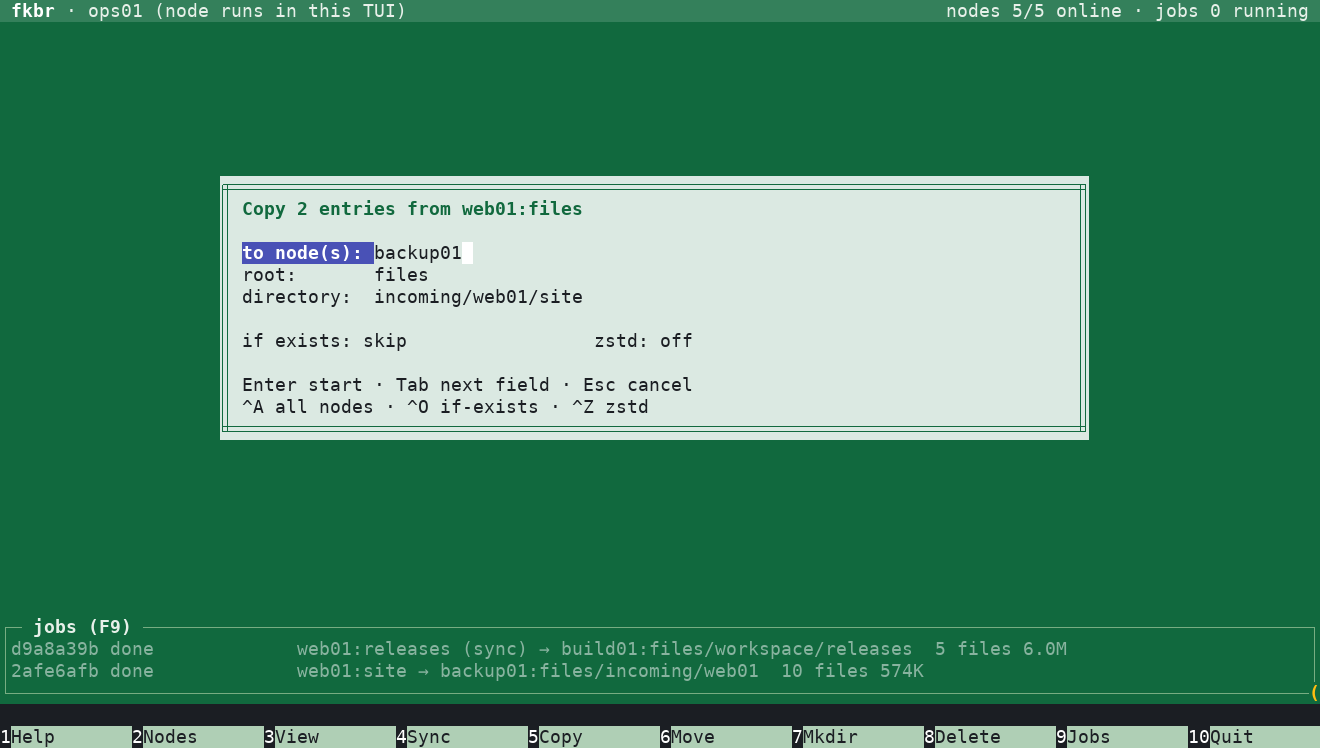
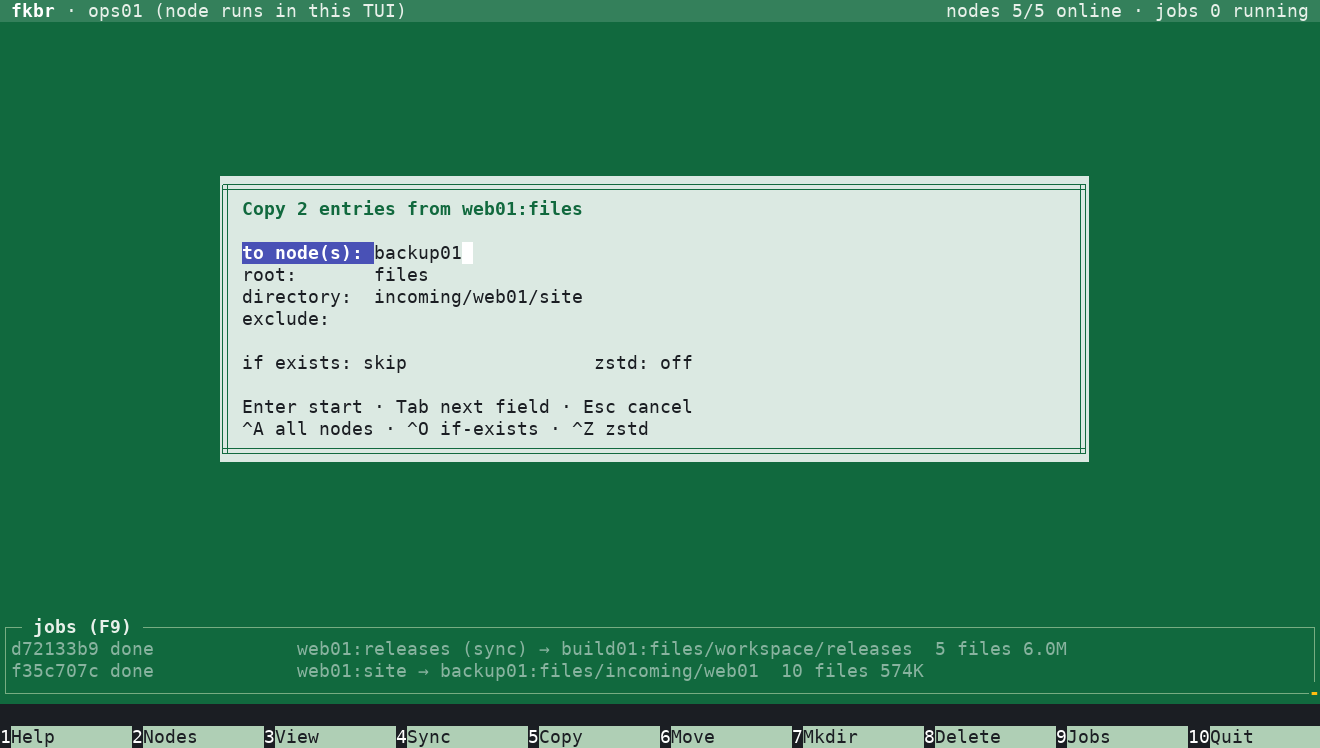
README: clearer wording, current screenshots, neutral demo data

Changed region(s): [[0.1553, 0.3997, 0.8386, 0.615], [0.0, 0.861, 0.0932, 0.9225], [0.9939, 0.9225, 1.0, 0.9532]]

diff --git a/README.md b/README.md
@@ -1,125 +1,133 @@
 # fkbr
 
-fkbr is a file commander and sync tool for hosts that share nothing but an
-NFS mount. Nodes never connect to each other. They exchange requests and
-data through a directory on the shared mount.
+fkbr copies and syncs files between Linux hosts that share only an NFS
+mount. The hosts never connect to each other: requests and data pass
+through a directory on the share. It ships as a single static binary with
+a dual-pane TUI and a scriptable CLI.
 
-- One static binary (x86-64 or ARM64) for any Linux with kernel 3.10 or
-  newer; it needs no glibc. Nothing is installed: no package, service,
-  system user or config in `/etc`.
-- A dual-pane TUI, Norton Commander style, where either pane can browse any
-  node. Copy, move, mkdir, delete and view work on any node.
-- A swarm, not a hierarchy: start `fkbr /mnt/nfs/dir` on each host and it
-  joins. Copies go to one node, a list, or every node (`@all`). Data is
-  staged once and every target reads it. Slow or offline targets are
-  detached and can catch up later.
-- About as fast as tar through the same share, and faster when copying to
-  several machines at once (`docs/benchmarks.md`).
-- Sync of millions of files: streaming scans with flat memory, incremental
-  or mirror mode, dry-run plans, and a delete limit.
-- Crash-safe: atomic publication on the share, chunk checksums, and
-  resumable jobs. Transfers are staged and installed only when complete.
-  Tested on a lab of five hosts by killing, freezing and restarting nodes
-  mid-transfer, cutting hosts off the NFS server, and deleting parts of
-  the share under running nodes (`docs/testplan.md`).
+## Features
 
-## What it looks like
+- **Nothing to install.** One static binary for x86-64 or ARM64. It runs
+  on any Linux with kernel 3.10 or newer and does not depend on glibc. No
+  package, service, system user or files in `/etc`.
+- **No master.** Each host that runs `fkbr /mnt/nfs/xfer` joins as a node
+  named after its hostname. Copy to one node, a list of nodes, or all of
+  them (`@all`).
+- **Fan-out.** Data is staged on the share once and read by every target.
+  Slow or offline targets are detached and can catch up later.
+- **Dual-pane TUI** in the style of Norton Commander. Either pane browses
+  any node; copy, move, sync, view, create and delete work on any node,
+  with live job progress.
+- **Sync** in one direction, incremental or mirror, over millions of files
+  with flat memory use. Every sync is planned as a dry run you confirm.
+  Excludes, keep-newer and a delete limit protect the target.
+- **Fast.** About as fast as tar through the same share, and faster when
+  copying to several hosts (`docs/benchmarks.md`).
+- **Crash-safe.** Atomic writes on the share, checksummed chunks and
+  resumable jobs. Files are installed only after the whole transfer has
+  arrived. Tested by killing, freezing and restarting nodes mid-transfer,
+  cutting hosts off the NFS server, and deleting parts of the share under
+  running nodes (`docs/testplan.md`).
 
-Five nodes on one share. On the left, two files on web01 are selected; on
-the right is backup01, where an earlier copy of web01's site arrived:
+## Screenshots
+
+Five nodes on one share. Two files are marked on web01 (left); backup01
+(right) holds an earlier copy of web01's site.
 
 ![Two panes: web01 and backup01, with the jobs panel below](docs/screenshots/fkbr-main.png)
 
-F5 copies the selection. The destination defaults to the other pane, or
-to the nodes marked with Insert in a node list (`@dest`); you can also
-type `n1,n2` or press Ctrl+A for every node:
+**Copy (F5).** The destination defaults to the other pane, or to the
+nodes marked with Insert in a node list (`@dest`). Type `n1,n2` for a
+list, or press Ctrl+A for all nodes. Excludes are optional.
 
 ![The copy dialog](docs/screenshots/fkbr-copy.png)
 
-Any pane can show any node. F9 moves to the jobs panel:
+**Jobs (F9).** Either pane can show any node. The jobs panel lists running
+and finished jobs.
 
 ![db01 and backup01, with the jobs panel focused](docs/screenshots/fkbr-jobs.png)
 
-Enter on a job shows its details while it runs: progress, rate and ETA,
-and what each node is doing:
+**Job details (Enter).** Progress, rate and ETA, and what each node is
+doing, updated live.
 
 ![Details of a running copy of three database dumps to four nodes](docs/screenshots/fkbr-progress.png)
 
-F4 syncs: the other side is made to match this pane, the whole folder or
-just the marked folders, after a dry run you confirm. F1 explains every key.
+**View (F3).** Shows a file from any node, with XML and JSON highlighted.
 
-F3 shows a file from any node, with XML and JSON highlighted:
+![The viewer showing a build configuration on build01](docs/screenshots/fkbr-view.png)
 
-![The viewer showing a Jenkins job config.xml from build01](docs/screenshots/fkbr-view.png)
+**Sync (F4)** makes the other side match this pane: the whole folder, or
+only the marked folders, after a dry run you confirm. **F1** lists every
+key.
 
 ## Quick start
 
-New here? Read `docs/FAQ.md`. It takes a minute.
-
-Build it on any machine with Go ≥ 1.25 (it cross-compiles):
+Build with Go 1.25 or newer. `make` cross-compiles both architectures:
 
 ```
-make               # dist/fkbr-linux-amd64 and dist/fkbr-linux-arm64, static
+make    # dist/fkbr-linux-amd64 and dist/fkbr-linux-arm64
 ```
 
-Copy the binary to each host. On each host, `cd` to the directory you want
-to share and point fkbr at a directory on the NFS mount:
+Copy the binary to each host. On each host, change to the directory to
+share and start fkbr with a directory on the NFS mount:
 
 ```
 cd /srv/data
 fkbr /mnt/nfs/xfer
 ```
 
-That's all. The host registers itself in `/mnt/nfs/xfer` as a node named
-after its hostname, shares the current directory with everything below it,
-and opens the TUI. Every host that does the same joins the swarm. There
-are no masters or slaves: copy to one node, a list (`hostb,hostc`), or
-every other node (`@all`; Ctrl+A in the TUI's copy dialog). Quitting the
-TUI leaves the swarm again; `fkbr /mnt/nfs/xfer daemon` keeps a host in it.
+The host joins as a node, shares the current directory and everything
+below it, and opens the TUI. Quitting the TUI leaves the swarm;
+`fkbr /mnt/nfs/xfer daemon` keeps the host in it without a terminal.
 
-From another shell on the same host, commands go through the running
-node:
+Before first use, run `fkbr /mnt/nfs/xfer check` on each host. It checks
+the mount options, atomic rename on the share, clock skew and node-name
+uniqueness.
+
+## Command line
+
+Commands use the node running on the same host (TUI or daemon):
 
 ```
-fkbr /mnt/nfs/xfer nodes
-fkbr /mnt/nfs/xfer cp /reports @all:/incoming
-fkbr /mnt/nfs/xfer cp hostb:/logs/app.log /
-fkbr /mnt/nfs/xfer sync -mirror -n /site hostb,hostc:/site
+fkbr /mnt/nfs/xfer nodes                                    # nodes and their state
+fkbr /mnt/nfs/xfer cp /reports @all:/incoming               # copy to every node
+fkbr /mnt/nfs/xfer cp hostb:/logs/app.log /                 # fetch from a node
+fkbr /mnt/nfs/xfer sync -mirror -n /site hostb,hostc:/site  # preview a mirror
+fkbr /mnt/nfs/xfer jobs                                     # running and recent jobs
 ```
 
-Run `fkbr /mnt/nfs/xfer check` on each host first. It checks the NFS mount
-options, atomic rename on the share, clock skew and node-name uniqueness.
-Options such as `-node`, `-ro`, `-root id=/path` and `-roles` are covered
-in `docs/operations.md`. `fkbr version` prints the release and commit
-(`fkbr v1.0 f0c0e0b`).
+`docs/operations.md` covers every command and option (`-node`, `-ro`,
+`-root id=/path`, `-roles`, ...). `fkbr version` prints the release and
+the commit it was built from.
 
 ## Documentation
 
-- `docs/FAQ.md`: the shortest way to get going
-- `docs/operations.md`: running nodes, commands, TUI keys, sync, privileges,
-  and what fkbr leaves on a host
+- `docs/FAQ.md`: short answers to common questions; start here
+- `docs/operations.md`: running nodes, commands, TUI keys, sync,
+  privileges, and what fkbr leaves on a host
 - `docs/protocol.md`: the on-share protocol (mailboxes, chunks, fan-out,
   sync)
 - `docs/benchmarks.md`: measured performance
 - `docs/testplan.md`: what could break, how it is tested, and the results
-- `examples/config.yaml`: every option, if you prefer a config file to flags
+- `examples/config.yaml`: every option, for those who prefer a config file
+  to flags
 
 ## Development
 
 ```
-make test         # unit, integration and failure-injection tests
-make test-race    # needs a 48-bit VMA kernel (not a Raspberry Pi 5)
+make test                    # unit, integration and failure-injection tests
+make test-race               # needs a kernel with a 48-bit VMA (not a Raspberry Pi 5)
 make vet
-scripts/bench.sh  # 1 master + N slaves on one machine
-scripts/screenshots/take.sh  # retake docs/screenshots (needs pyte, pillow)
+scripts/bench.sh             # 1 source + N targets on one machine
+scripts/screenshots/take.sh  # retake docs/screenshots (needs pyte and pillow)
 ```
 
-The layers:
-- **Frontends:** `internal/frontend/{cli,tui}`, which only use
-  `internal/api`.
+The code is layered:
+
+- **Frontends:** `internal/frontend/{cli,tui}`, using only `internal/api`.
 - **API:** `internal/api`, with an in-process client (`api/local`) and a
   Unix-socket client (`api/remote`).
-- **Engine:** `internal/engine`, which handles jobs, fan-out and sync.
+- **Engine:** `internal/engine`: jobs, fan-out and sync.
 - **Subsystems:** `transport/nfsmailbox`, `bundle`, `receive`, `inventory`
   and `localfs`.
 
